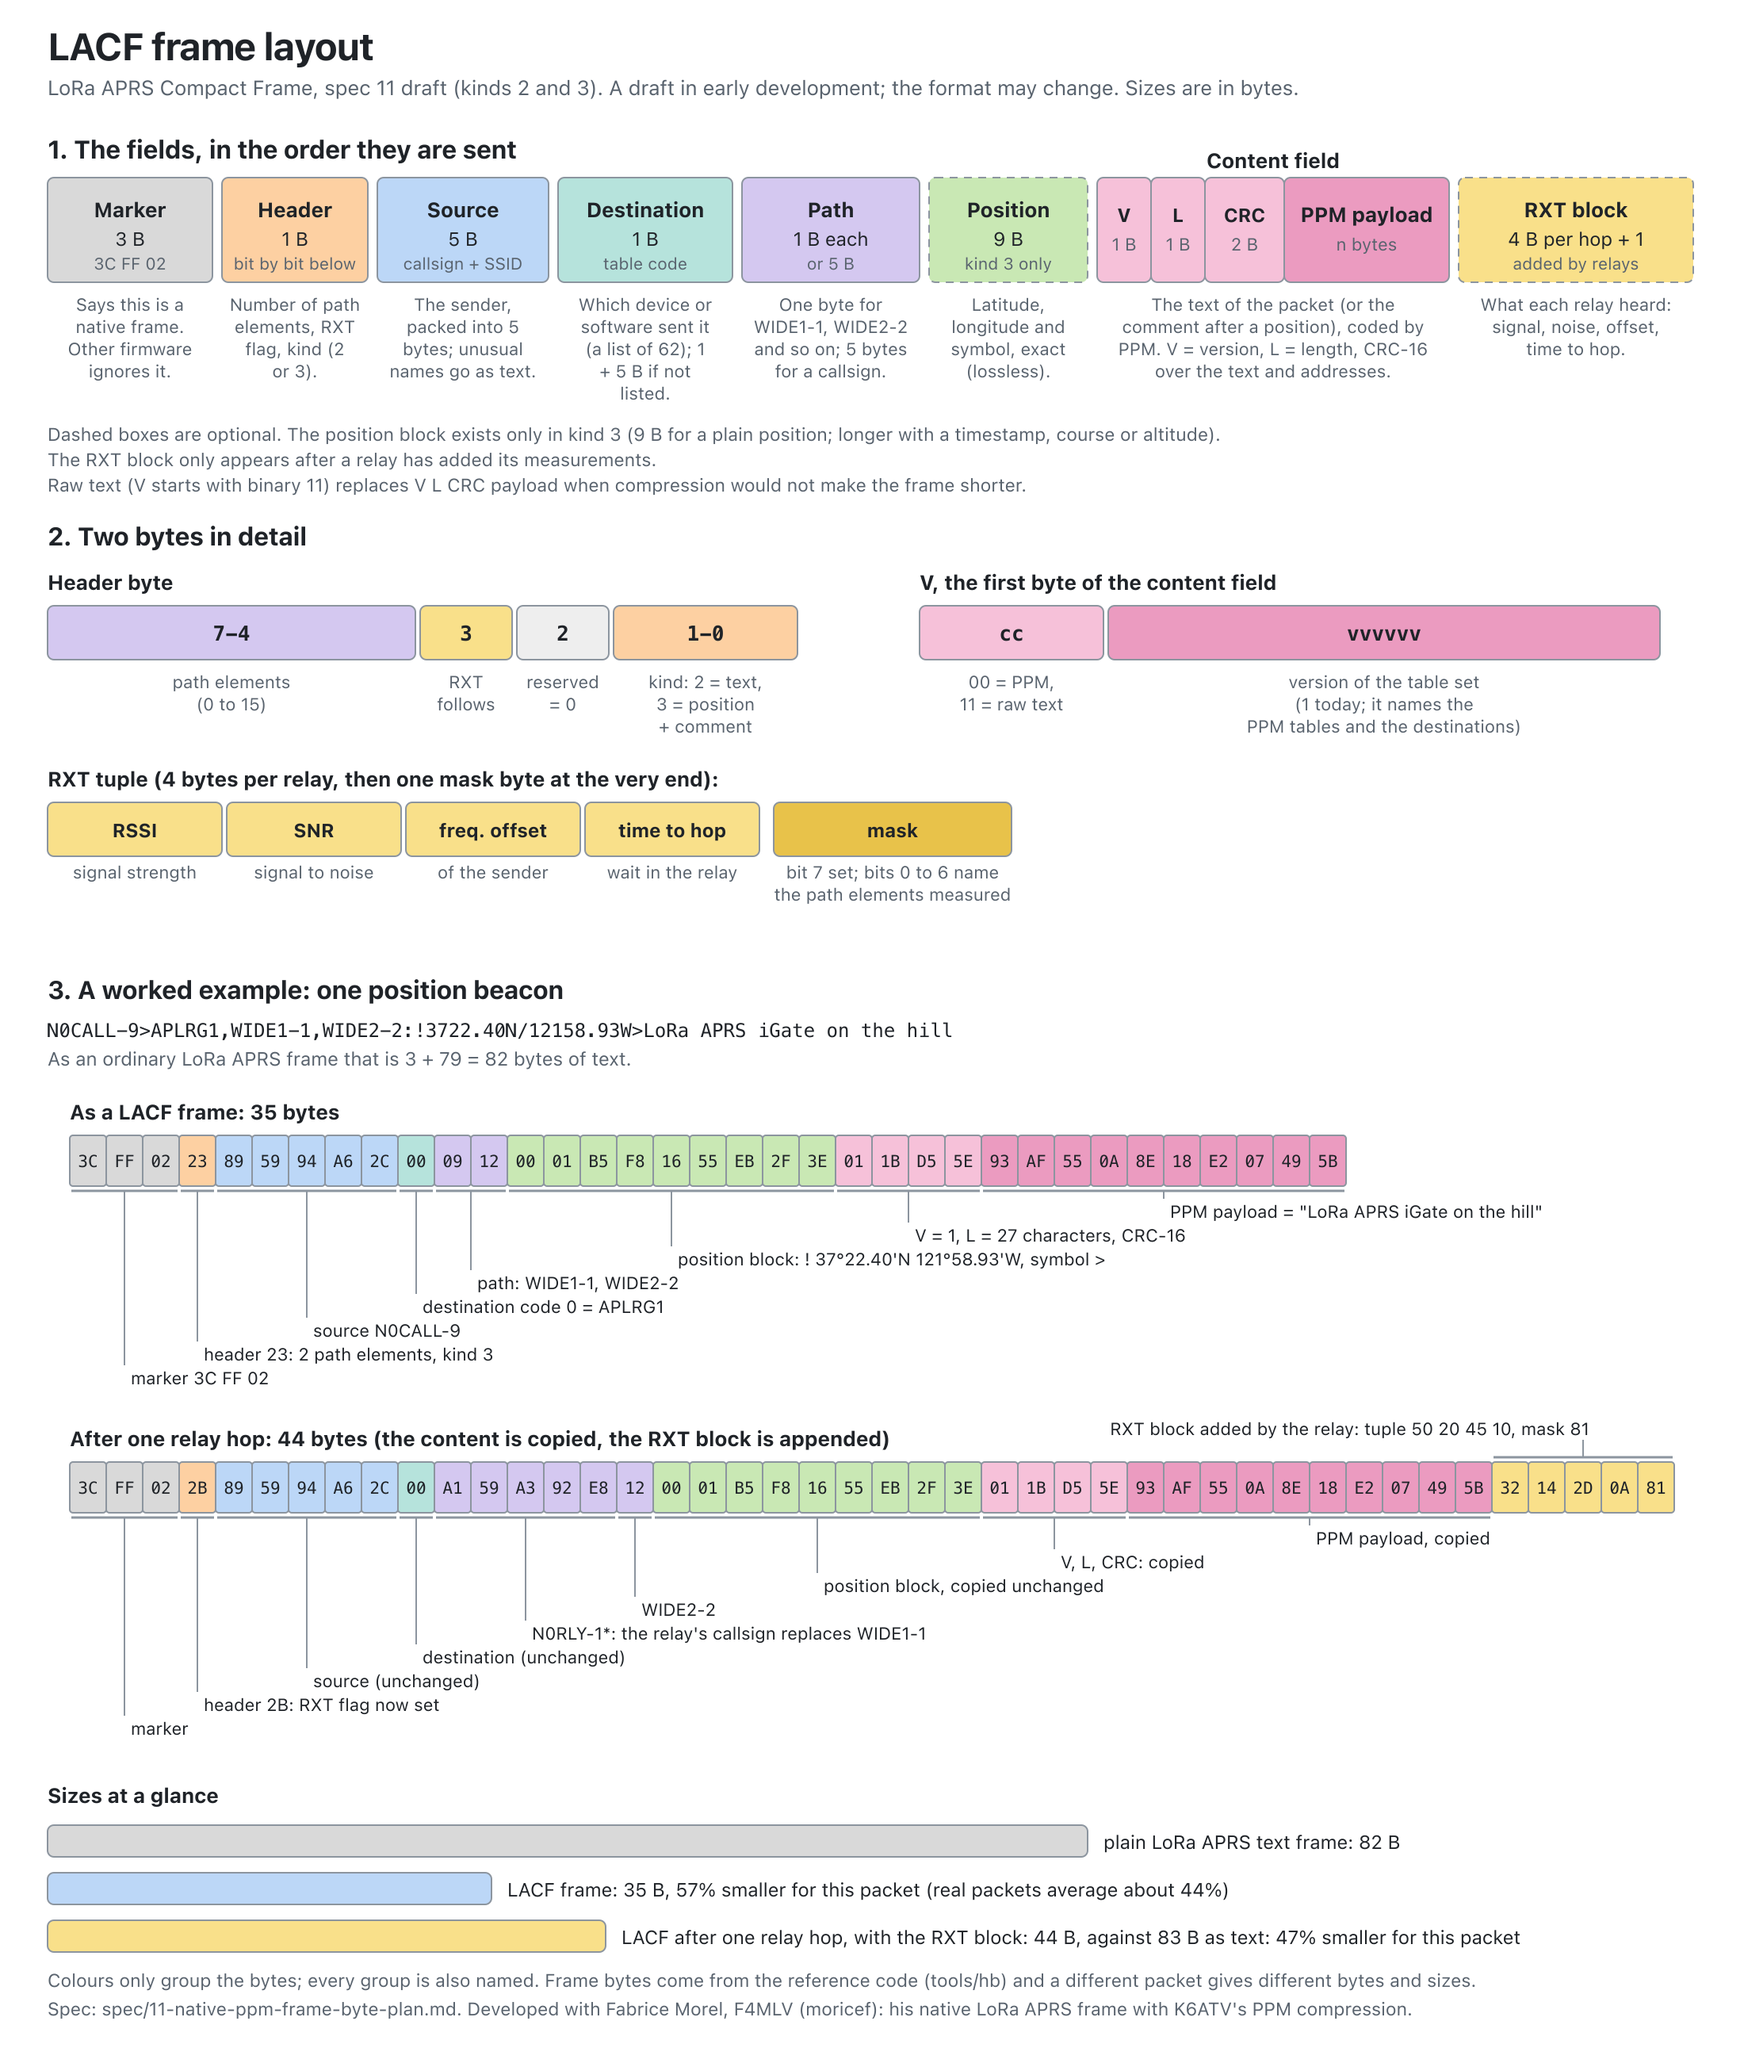
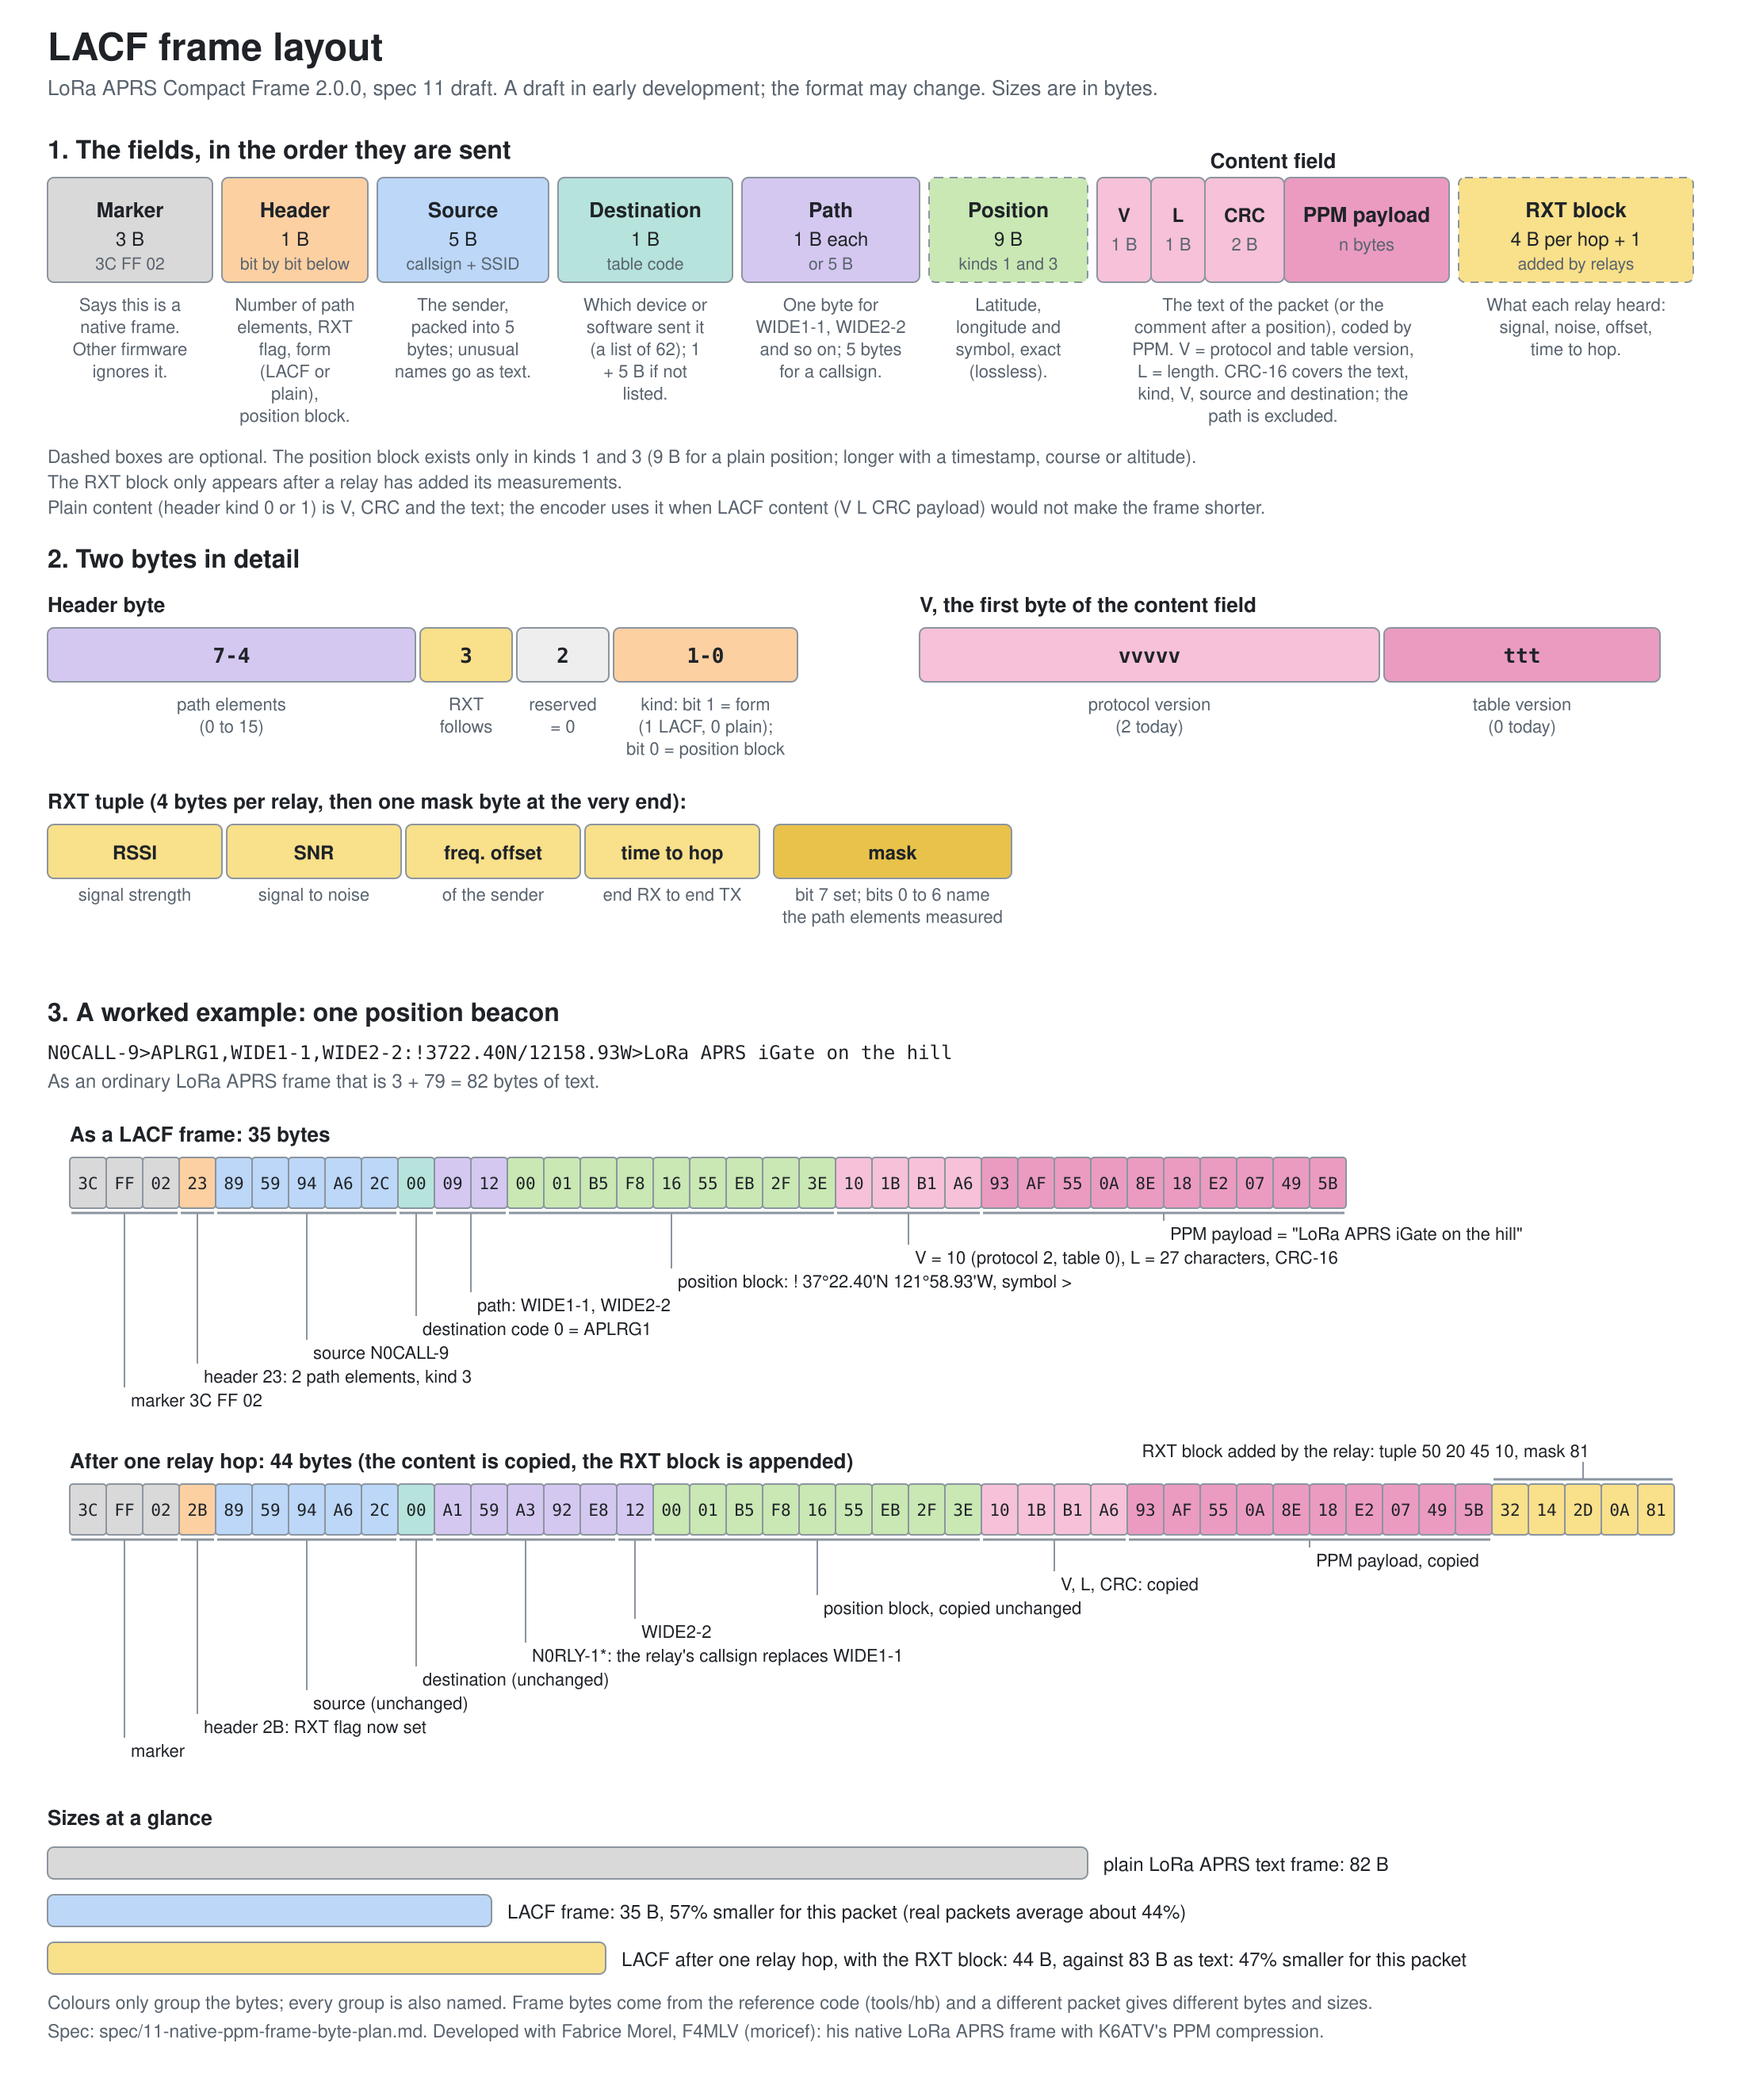
Clarify CRC and time-to-hop labels in LACF diagram

diff --git a/tools/lacf_diagram.py b/tools/lacf_diagram.py
@@ -39,10 +39,10 @@ def line(x1, y1, x2, y2, stroke=LINE, sw=1, dash=""):
 H = 0
 add(f'<svg xmlns="http://www.w3.org/2000/svg" width="{W}" height="{H}" viewBox="0 0 {W} {H}" role="img" aria-labelledby="t d">')
 add('<title id="t">LACF frame layout</title>')
-add('<desc id="d">The fields of a LACF frame (LoRa APRS Compact Frame, spec 11 draft) and a worked example: a position beacon of 82 bytes as plain text is 35 bytes as a LACF frame and 44 bytes after one relay hop.</desc>')
+add('<desc id="d">The fields of a LACF 2.0.0 frame (LoRa APRS Compact Frame, spec 11 draft) and a worked example: a position beacon of 82 bytes as plain text is 35 bytes as a LACF frame and 44 bytes after one relay hop.</desc>')
 rect(0, 0, W, 0, "#ffffff", stroke="#ffffff", rx=0)
 text(30, 38, "LACF frame layout", 24, "bold")
-text(30, 60, "LoRa APRS Compact Frame, spec 11 draft. A draft in early development; the format may change. Sizes are in bytes.", 13, fill=MUTED)
+text(30, 60, "LoRa APRS Compact Frame 2.0.0, spec 11 draft. A draft in early development; the format may change. Sizes are in bytes.", 13, fill=MUTED)
 
 # ---------------------------------------------------------------- A. the fields
 text(30, 100, "1. The fields, in the order they are sent", 16, "bold")
@@ -72,7 +72,7 @@ for name, size, sub, key, w, notes in fields:
             text(px + pw / 2, y0 + 46, sz, 11, fill=MUTED, anchor="middle")
             px += pw
         text(x + w / 2, y0 - 6, "Content field", 13, "bold", anchor="middle")
-        wr = textwrap.wrap("The text of the packet (or the comment after a position), coded by PPM. V = protocol and table version, L = length, CRC-16 over the text and addresses.", int(w / 6.1))
+        wr = textwrap.wrap("The text of the packet (or the comment after a position), coded by PPM. V = protocol and table version, L = length. CRC-16 covers the text, kind, V, source and destination; the path is excluded.", int(w / 6.1))
         maxlines = max(maxlines, len(wr))
         for i, s_ in enumerate(wr):
             text(x + w / 2, y0 + bh + 18 + 14 * i, s_, 11, fill=MUTED, anchor="middle")
@@ -110,7 +110,7 @@ bits(580, yb + 28, [("vvvvv", 5, ["protocol version", "(2 today)"], C["vlc"]), (
 add_y = yb + 28 + 124
 text(30, add_y, "RXT tuple (4 bytes per relay, then one mask byte at the very end):", 13, "bold")
 tx = 30
-for lbl, note in [("RSSI", "signal strength"), ("SNR", "signal to noise"), ("freq. offset", "of the sender"), ("time to hop", "wait in the relay")]:
+for lbl, note in [("RSSI", "signal strength"), ("SNR", "signal to noise"), ("freq. offset", "of the sender"), ("time to hop", "end RX to end TX")]:
     rect(tx, add_y + 10, 110, 34, C["tuple"]); text(tx + 55, add_y + 32, lbl, 12, "bold", anchor="middle"); text(tx + 55, add_y + 58, note, 11, fill=MUTED, anchor="middle"); tx += 113
 rect(tx + 6, add_y + 10, 150, 34, C["mask"]); text(tx + 81, add_y + 32, "mask", 12, "bold", anchor="middle"); text(tx + 81, add_y + 58, "bit 7 set; bits 0 to 6 name", 11, fill=MUTED, anchor="middle"); text(tx + 81, add_y + 72, "the path elements measured", 11, fill=MUTED, anchor="middle")
 

diff --git a/README.md b/README.md
@@ -49,7 +49,7 @@ predicted from the three before it.
 ### The current format: LACF (spec 11)
 
 LACF, the *LoRa APRS Compact Frame*, is the native LoRa APRS frame (`3C FF 02`) with a PPM-coded **content field**: the addresses and path are packed into a few bytes,
-and only the text of the packet (or the comment after a position) is compressed, with a CRC-16 over the text and the addresses so a damaged or cut frame is dropped, not
+and only the text of the packet (or the comment after a position) is compressed, with a CRC-16 over the text, kind bits, `V`, source and destination (the mutable path is excluded) so a damaged or cut frame is dropped, not
 mis-read. A relay adds an optional **RXT block** (what each hop heard: signal strength, signal-to-noise, frequency offset, time to hop) at the end without touching the content. Stations that do not
 know the frame ignore it. The byte plan is [spec 11](spec/11-native-ppm-frame-byte-plan.md), a draft.
 

diff --git a/docs/lacf-frame-layout.md b/docs/lacf-frame-layout.md
@@ -1,6 +1,6 @@
 # What a LACF frame looks like
 
-LACF (LoRa APRS Compact Frame, [spec 11](../spec/11-native-ppm-frame-byte-plan.md)) is a draft in early development, and the format may change. This page shows the layout once as a picture and once as tables, then follows one real packet byte by byte.
+LACF 2.0.0 (LoRa APRS Compact Frame, [spec 11](../spec/11-native-ppm-frame-byte-plan.md)) is a draft in early development, and the format may change. This page shows the layout once as a picture and once as tables, then follows one real packet byte by byte.
 
 ![The fields of a LACF frame, the header and V bytes, the RXT block, and a worked example of 35 bytes, and 44 bytes after one relay hop](img/lacf-frame-layout.svg)
 
